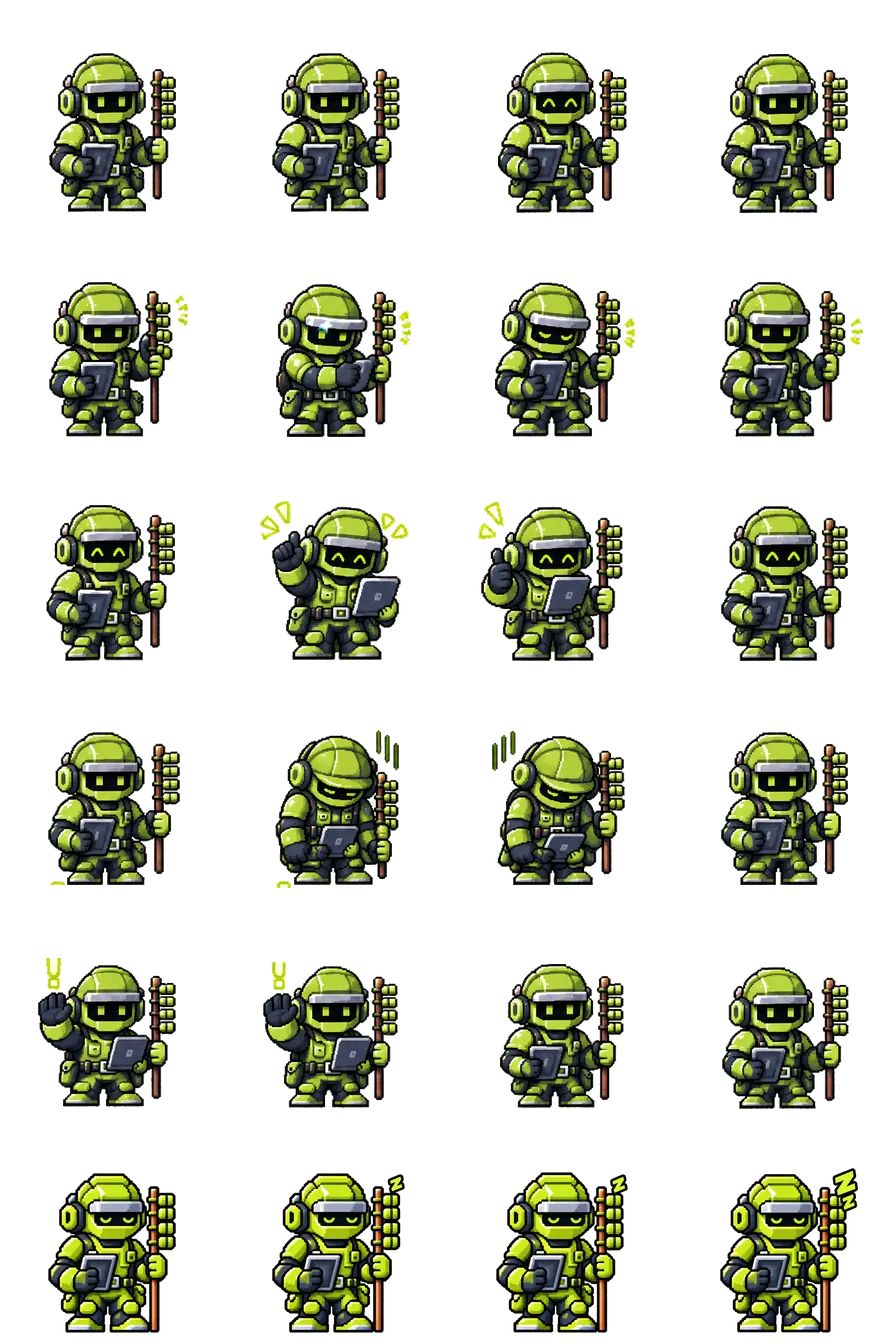
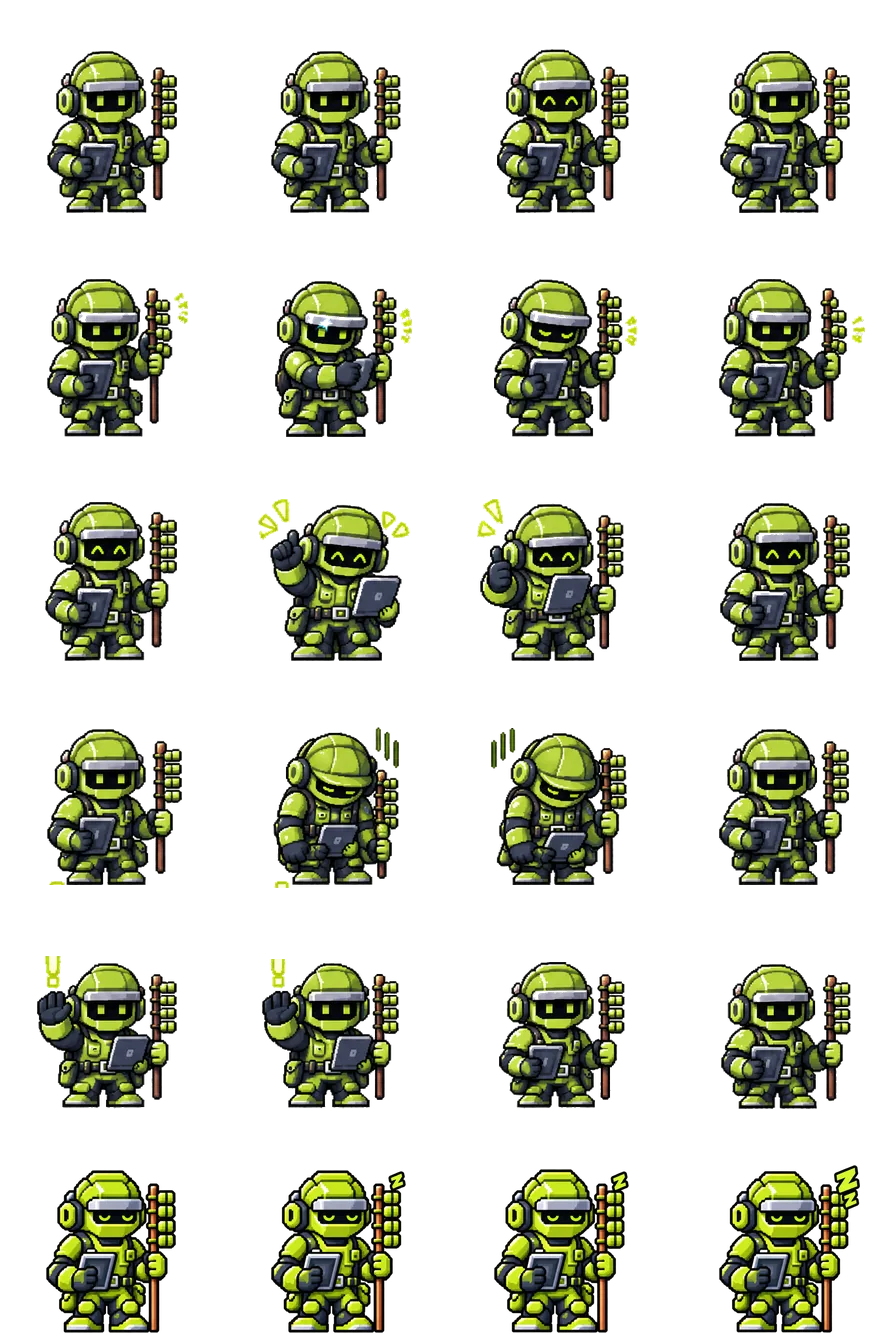
ATLAS: the real sprite sheet replaces the stand-in (#70)
* ATLAS: the real sprite sheet replaces the stand-in

ATLAS's regenerated sheet is a 1024x1536 portrait, which gives five rows
enough height that the waiting row's feet stay on the canvas (two square
attempts cut them off). All 20 frames cut cleanly, so ATLAS leaves the
STAND_IN list and its hand-made rows are deleted. The crew-wide scale now
includes ATLAS's idle frames, so every sheet was re-cut (~1-2% larger).

agent_art.py: a figure within 12px of the sheet's bottom and clearly
shorter than its idle self is refused — a cut edge fades out, so the
second attempt stopped 4px short of the edge and slipped past the old
2px check. ART_VERSION 3 so cached stand-in sheets refresh.

* agent_art.py: drop the unused stand-in path, fix docs, relative edge check

With ATLAS's real sheet in, the STAND_IN branch had no entries and no run
exercised it; it is removed (git history has it). The docstring now says
sheets can be any size and drops a stale 'see ATLAS above'. The run-off
check's bottom band is 1% of the sheet's height rather than a fixed 12px,
so it means the same on a 1254px square and a 1536px portrait. Outputs
are byte-identical.

* agent_art.py notes a sheet on a different canvas; clarify ART_VERSION 3

The shared scale compares figures in source pixels, so a sheet drawn on
another canvas size can move the whole crew. The script now says which
sheet differs (today ATLAS's portrait; its result was measured and keeps
[…]

diff --git a/frontend/components/agents/personas.ts b/frontend/components/agents/personas.ts
@@ -101,9 +101,10 @@ export function artFor(a: Persona): { sheet: string; still: string } {
  * Bump whenever the sheet layout or the art changes. The CSS assumes the
  * layout (rows, order), so a cached sheet from before a change would be drawn
  * at the wrong offsets; a new query string makes every browser and CDN fetch
- * the new one. 2 = the 4x6 sheet with the sleep row.
+ * the new one. 2 = the 4x6 sheet with the sleep row; 3 = ATLAS's real sheet,
+ * which moved the crew-wide scale, so all eight sheets and stills re-rendered.
  */
-const ART_VERSION = 2;
+const ART_VERSION = 3;
 
 /** Build the render palette for one agent's desk prop. */
 export function deskPaletteFor(a: Persona): Record<string, string> {

diff --git a/frontend/scripts/agent_art.py b/frontend/scripts/agent_art.py
@@ -7,7 +7,8 @@ Turns the generated crew art in `assets/` into what AgentSprite plays.
 
 Inputs, per agent: a still (`scope.png`), a 5x4 sprite sheet
 (`Scope Sprite Sheet.png`) and a 2x2 sleep sheet (`Scope Sleep Sheet.png`),
-all 1254x1254 out of an image model. Outputs, in
+each straight out of an image model (1254x1254 squares, except ATLAS's
+1024x1536 portrait sheet — any size works). Outputs, in
 `frontend/public/agents/`:
 
     <codename>.webp        the sheet, re-cut onto an even 4x6 grid of CELL cells:
@@ -35,12 +36,10 @@ the WebPs in public/agents/ can always be rebuilt). To change a character,
 replace its still and sheet in `assets/` under the names in AGENTS and rerun
 for that agent.
 
-ATLAS: its first sheet runs off the canvas in the last row, which this script
-refuses, so rows 1-5 of `public/agents/atlas.webp` are a hand-made stand-in
-(its idle frames reused for the waiting row, with its own "!" on frames 1-2),
-kept losslessly in `assets/Atlas Stand-in Rows.png` (see STAND_IN). Until a
-regenerated sheet is in place, a run uses those rows and the published still
-and only rebuilds ATLAS's sleep row; delete both entries once it is.
+Sheets don't have to be square: five rows in a square left the image model too
+little height, and ATLAS's bottom row ran off the canvas twice; its sheet is a
+1024x1536 portrait. A sheet that can't be cut stops the run — regenerate it
+(a temporary hand-made stand-in is in git history before #70, if one is needed).
 """
 
 from __future__ import annotations
@@ -253,7 +252,9 @@ def frames(sheet: Image.Image):
 
             if r == 0:
                 idle_h[c] = bbox[3] - bbox[1]
-            elif bbox[3] >= H - 2 and (bbox[3] - bbox[1]) < 0.8 * idle_h[c]:
+            elif bbox[3] >= H * 0.99 and (bbox[3] - bbox[1]) < 0.8 * idle_h[c]:
+                # The last 1% of the sheet counts: a cut edge fades out over its
+                # last pixels, so a cut figure can stop a few short of it.
                 # Touching the edge alone isn't enough — most sheets put the soles
                 # on the last pixel. A figure clearly shorter than its idle self
                 # has lost its feet, and that can't be repaired here. Reported
@@ -265,12 +266,6 @@ def frames(sheet: Image.Image):
             f"{', '.join(bad)} run off the bottom of the sheet — "
             "regenerate it with a margin on every edge"
         )
-
-
-# Agents whose sprite sheet can't be cut yet, and the lossless copy of the
-# hand-made rows 1-5 that stand in for it. Only these may keep published rows;
-# any other agent with a broken sheet stops the run.
-STAND_IN = {"atlas": "Atlas Stand-in Rows.png"}
 
 
 def sleep_file(name: str) -> str:
@@ -365,7 +360,6 @@ def main():
     # Every sheet is cut even when only some are written: the shared scale
     # depends on all eight, so a rebuilt agent stays the same size as the rest.
     cut = {}
-    skipped = set()
     for name, (_, sheet_file) in AGENTS.items():
         sheet = strip_painted_checkerboard(Image.open(SRC / sheet_file))
         cut[name] = []
@@ -375,12 +369,20 @@ def main():
         except SystemExit as e:
             # Fatal only for a sheet being written; for the others the idle
             # row is all the shared scale needs, and it is always cut in full.
-            if sum(1 for r, *_ in cut[name] if r == 0) < COLS or (name in only and name not in STAND_IN):
+            if name in only or sum(1 for r, *_ in cut[name] if r == 0) < COLS:
                 raise SystemExit(f"{sheet_file}: {e}") from None
-            print(f"skip {name}: {e}")
-            skipped.add(name)
+            print(f"skip {name} (not being written): {e}")
             continue
         print(f"cut {name}: {len(cut[name])} frames")
+
+    # The shared scale compares figures in source pixels, so a sheet drawn on a
+    # different canvas than the rest can move everyone's size. Say so.
+    sizes = {n: Image.open(SRC / f).size for n, (_, f) in AGENTS.items()}
+    common = max(set(sizes.values()), key=list(sizes.values()).count)
+    for n, sz in sizes.items():
+        if sz != common:
+            print(f"  note: {n}'s sheet is {sz[0]}x{sz[1]}, the rest {common[0]}x{common[1]} — "
+                  "check its size against the crew")
 
     # One scale for the whole crew: the largest that fits every idle figure.
     scale = min(
@@ -394,27 +396,9 @@ def main():
         if name not in only:
             continue
         grid = Image.new("RGBA", (CELL * COLS, CELL * OUT_ROWS), (0, 0, 0, 0))
-        if name in skipped:
-            # The sprite sheet can't be cut (see ATLAS above): use the stand-in
-            # rows 1-5 from their lossless copy — made once from the published
-            # sheet — so rebuilds never re-compress them. The sleep row is
-            # sized from that idle frame, not this run's scale, so it matches
-            # the rows it sits under even if the crew-wide scale has moved.
-            rows_file = SRC / STAND_IN[name]
-            if not rows_file.exists():
-                published = Image.open(OUT / f"{name}.webp").convert("RGBA")
-                published.crop((0, 0, CELL * COLS, CELL * ROWS)).save(rows_file)
-                print(f"  {name}: saved the published rows 1-5 to {rows_file.name}")
-            rows = Image.open(rows_file).convert("RGBA")
-            grid.paste(rows, (0, 0))
-            ia = rows.crop((0, 0, CELL, CELL)).getchannel("A").load()
-            ib = max(components(ia, (0, 0, CELL, CELL)), key=lambda k: k[0])[1]
-            idle_h = ib[3] - ib[1]
-            print(f"  {name}: stand-in rows 1-5 from {rows_file.name}")
-        else:
-            idle_h = next((b[3] - b[1]) * scale for r, c, _f, _a, b in cut[name] if r == 0 and c == 0)
-            for r, c, frame, anchor, bbox in cut[name]:
-                grid.alpha_composite(place(frame, anchor, scale), (c * CELL, r * CELL))
+        idle_h = next((b[3] - b[1]) * scale for r, c, _f, _a, b in cut[name] if r == 0 and c == 0)
+        for r, c, frame, anchor, bbox in cut[name]:
+            grid.alpha_composite(place(frame, anchor, scale), (c * CELL, r * CELL))
 
         # The sleep loop is drawn at its own size, so each agent's is scaled to
         # its idle figure — dozing off and waking up never change their size.
@@ -431,10 +415,6 @@ def main():
                 print(f"  warning: {name} sleep frame {c + 1} is clipped by its cell")
             grid.alpha_composite(place(frame, anchor, k), (c * CELL, ROWS * CELL))
         webp(grid, OUT / f"{name}.webp")
-        if name in skipped:
-            # Its still stays as published, alongside the rows it matches.
-            print(f"wrote {name} (sleep row only)")
-            continue
 
         # The still is drawn at the same height as the idle frame, so swapping
         # one for the other never changes the figure's size.
